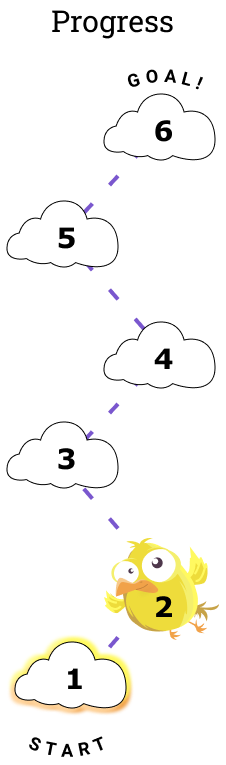
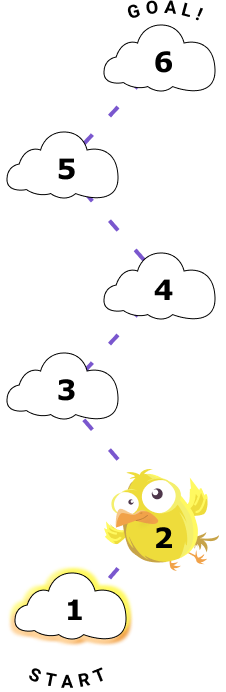
redesign

diff --git a/substraction.html b/substraction.html
@@ -7,7 +7,7 @@
         <meta name="viewport" content="width=device-width, initial-scale=1.0">
         <title>IXL Redesign</title>
         <style>
-            body {background-image:url("/images/Megagroup-Online Learning for Kids/Background.jpg");}
+            body {background-image:url("Images/Megagroup-Online Learning for Kids/Background.jpg");}
         </style>
         <link rel="stylesheet" href="CSS/stylesheet.css">
         <link rel="preconnect" href="https://fonts.gstatic.com">
@@ -22,9 +22,9 @@
                   <div class="p-3 ">
                  <div class="content">
                     <h1>Lili<br>Learner<br></h1>
-                 <div id="lili"><img src="/images/Megagroup-Online Learning for Kids/Lily-Learner.jpg"></div>
-                 <div id="score"><img src="/images/IXL-Online Learning for Kids (1)/Score-1-star.png"></div>
-                 <div id="freddie"><img src="/images/IXL-Online Learning for Kids (1)/Freddie.png"></div>
+                 <div id="lili"><img src="Images/Megagroup-Online Learning for Kids/Lily-Learner.jpg"></div>
+                 <div id="score"><img src="Images/IXL-Online Learning for Kids (1)/Score-3-stars.png"></div>
+                 <div id="freddie"><img src="Images/IXL-Online Learning for Kids (1)/Freddie.png"></div>
                  <button type="button" class="secondary">Need Help?</button></div></div>
                   </div>
                <!--Second Column  -->
@@ -32,17 +32,17 @@
                   <div class="p-3">
                 <div class="centerContent">
                       <h1> Lesson 1</h1>
-                    <h2>Sustract</h2>
-                    <div class="question"><img src="/Images/Question_4_try1.png"></div>
+                    <h2>Substract</h2>
+                    <div class="question"><img src="Images/Question_4_try1.png"></div>
                     <button type="button" class="primary">Enter</button>
-                    <div id="keypad"><img src="/images/IXL-Online Learning for Kids (1)/Number_Pad.png"></div></div></div>
+                    <div id="keypad"><img src="Images/IXL-Online Learning for Kids (1)/Number_Pad.png"></div></div></div>
                     </div>
                 <!-- Third column -->
               <div class="col-3 ">
                   <div class="p-3 ">
                <div class="content">
                       <h1 class="Progress">Progress</h1>
-                    <div id="bar"><img src="/images/IXL-Online Learning for Kids (1)/Progress-question-1.png"></div></div></div>
+                    <div id="bar"><img src="Images/IXL-Online Learning for Kids (1)/Progress-question-2.png"></div></div></div>
                  </div>
             </div>
           </div>

diff --git a/css/stylesheet.css b/css/stylesheet.css
@@ -47,7 +47,7 @@ margin-bottom: 20px;
 margin-top: 10px;
 }
 #freddie{
-    margin-top: 150px;
+    margin-top: 100px;
     margin-bottom: 10px;
 }
 #keypad{
